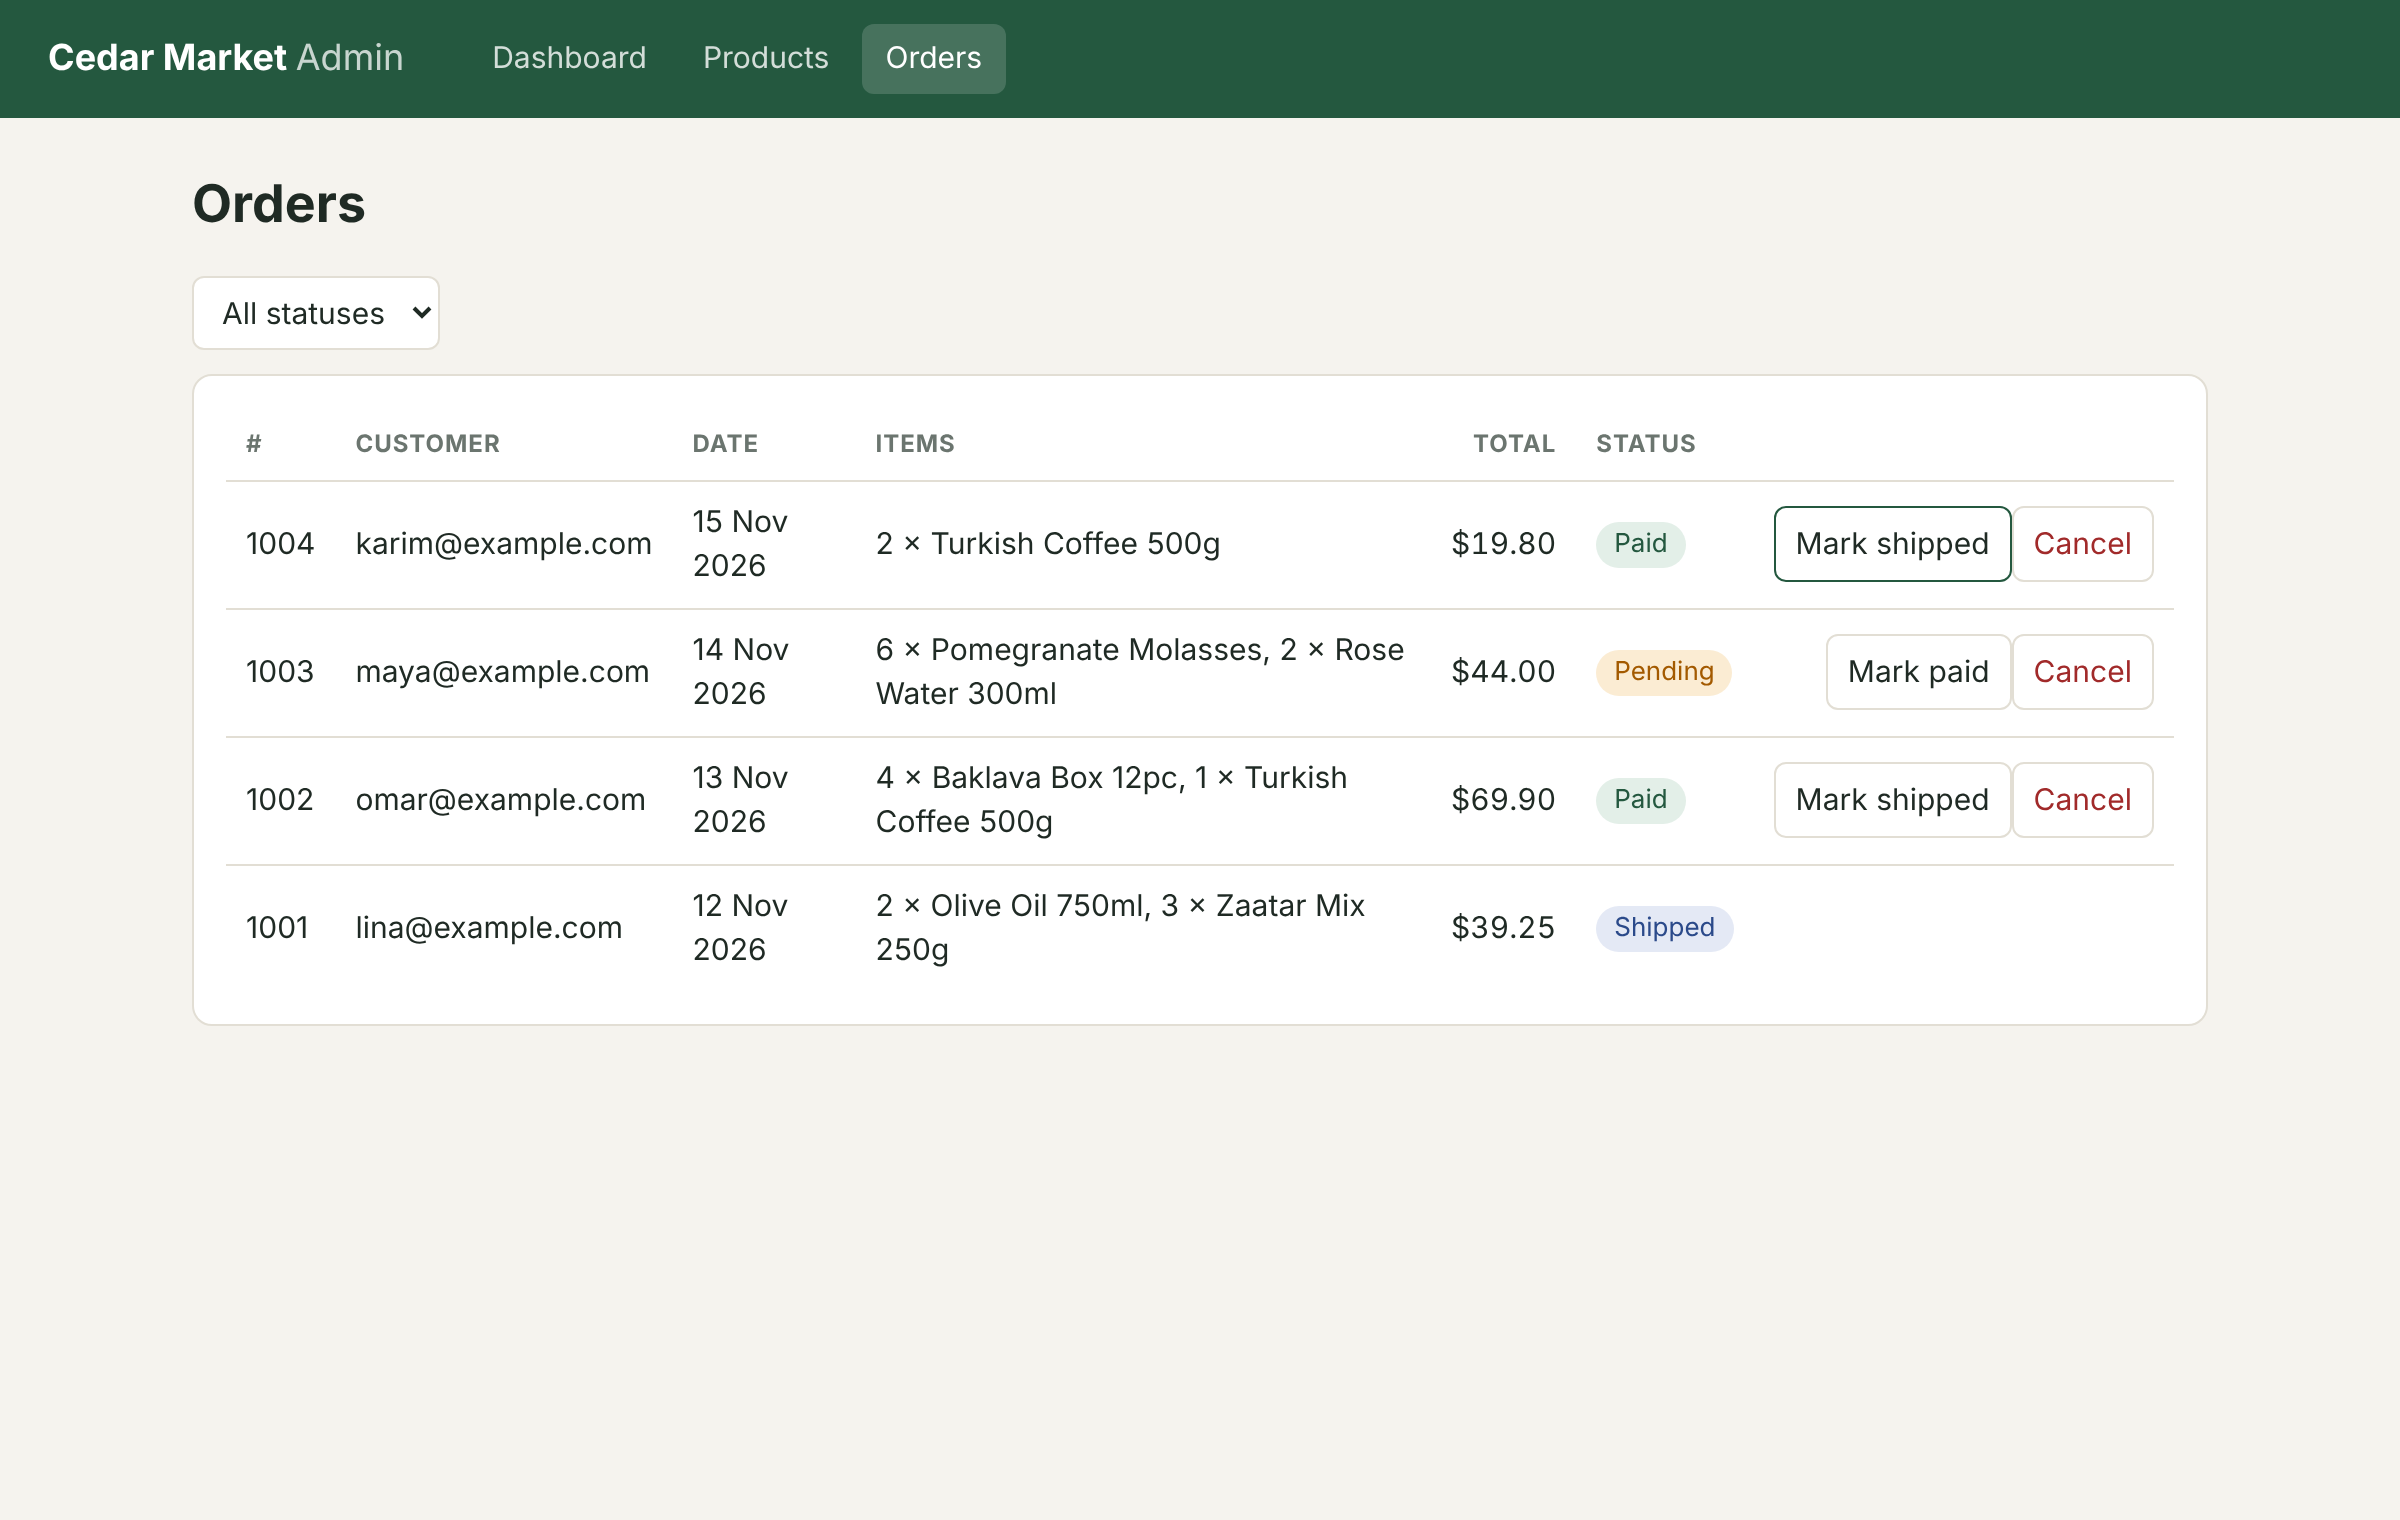
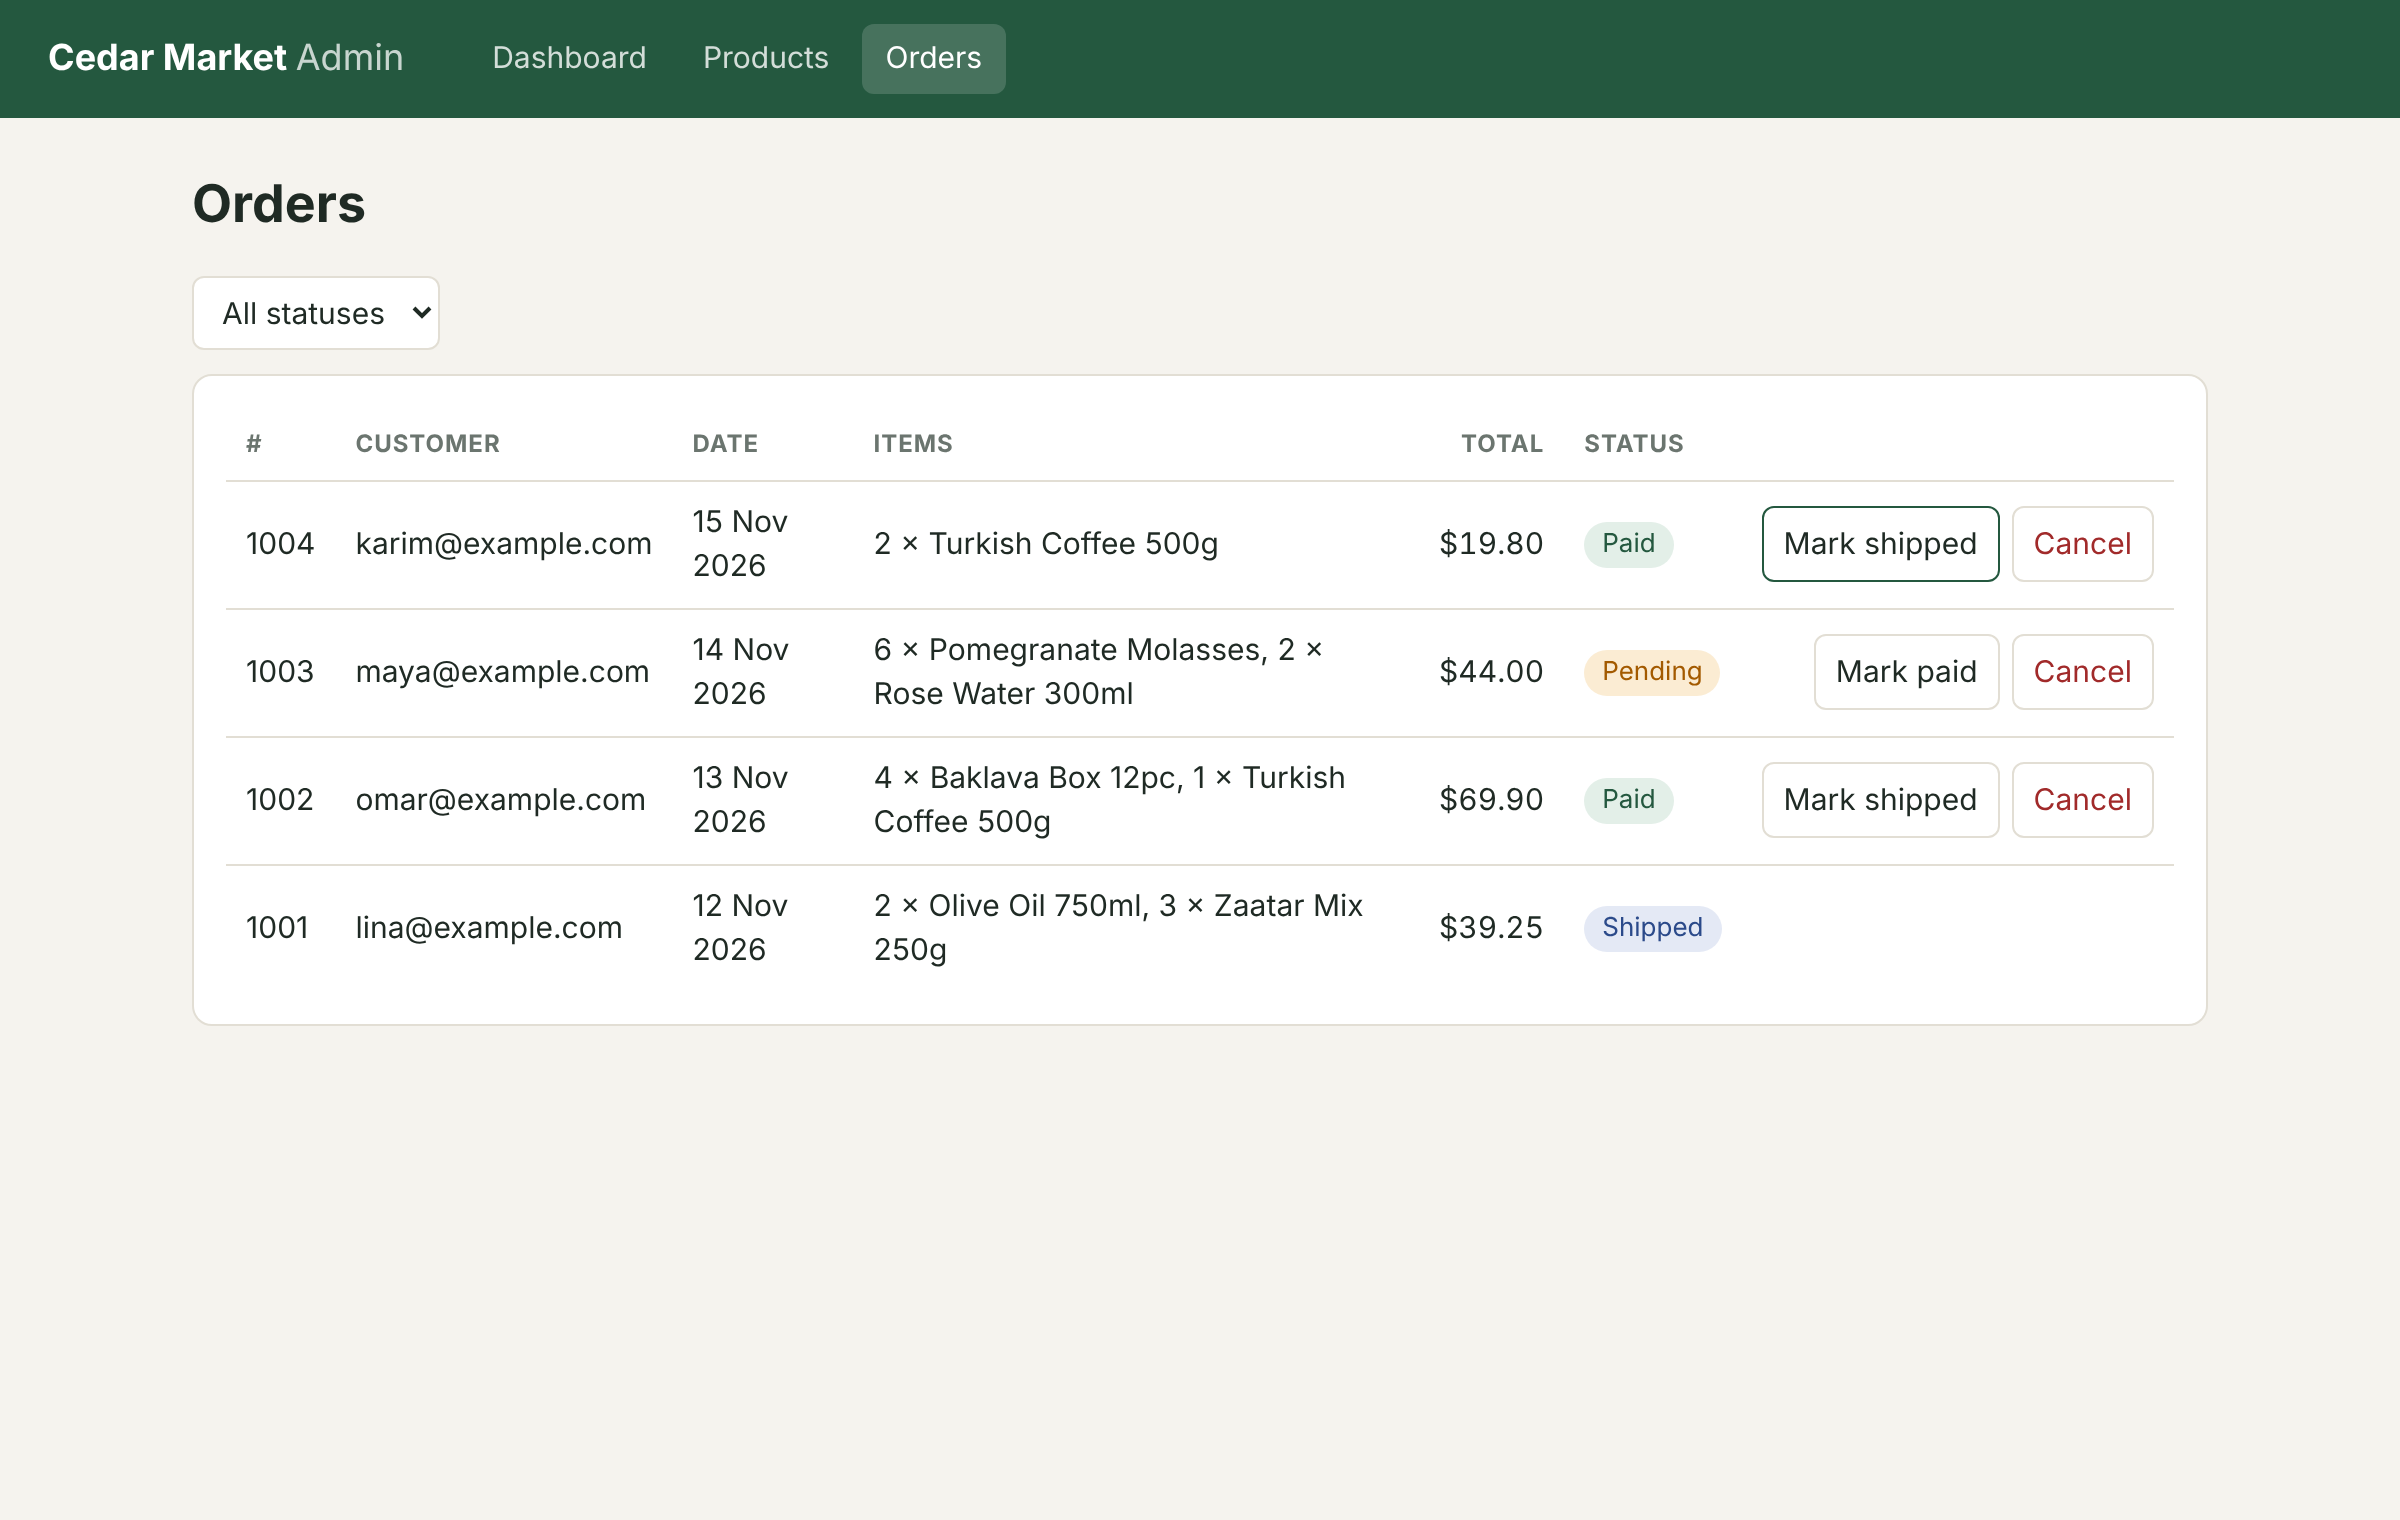
Switch to Blazor WebAssembly so the app can be hosted as a static site

diff --git a/src/StoreAdmin/wwwroot/index.html b/src/StoreAdmin/wwwroot/index.html
@@ -1,0 +1,26 @@
+<!DOCTYPE html>
+<html lang="en">
+
+<head>
+    <meta charset="utf-8" />
+    <meta name="viewport" content="width=device-width, initial-scale=1.0" />
+    <title>Cedar Market Admin</title>
+    <base href="/" />
+    <link rel="icon" href="data:," />
+    <link rel="stylesheet" href="css/app.css" />
+</head>
+
+<body>
+    <div id="app">
+        <p class="loading">Loading Cedar Market Admin…</p>
+    </div>
+
+    <div id="blazor-error-ui">
+        An unhandled error has occurred.
+        <a href="" class="reload">Reload</a>
+        <a class="dismiss">🗙</a>
+    </div>
+    <script src="_framework/blazor.webassembly.js"></script>
+</body>
+
+</html>

diff --git a/src/StoreAdmin/wwwroot/css/app.css b/src/StoreAdmin/wwwroot/css/app.css
@@ -118,3 +118,4 @@ h1:focus {
     border-color: #929292;
 }
 .row-actions button + button { margin-left: 6px; }
+.loading { text-align: center; padding: 80px 16px; color: var(--muted); }

diff --git a/src/StoreAdmin/Program.cs b/src/StoreAdmin/Program.cs
@@ -1,34 +1,16 @@
 using System.Globalization;
-using StoreAdmin.Components;
+using Microsoft.AspNetCore.Components.Web;
+using Microsoft.AspNetCore.Components.WebAssembly.Hosting;
+using StoreAdmin;
 using StoreAdmin.Services;
 
-// Prices are shown in US dollars regardless of the server's locale.
+// Prices are shown in US dollars regardless of the browser's locale.
 CultureInfo.DefaultThreadCurrentCulture = CultureInfo.DefaultThreadCurrentUICulture = new CultureInfo("en-US");
 
-var builder = WebApplication.CreateBuilder(args);
-
-// Add services to the container.
-builder.Services.AddRazorComponents()
-    .AddInteractiveServerComponents();
+var builder = WebAssemblyHostBuilder.CreateDefault(args);
+builder.RootComponents.Add<App>("#app");
+builder.RootComponents.Add<HeadOutlet>("head::after");
 
 builder.Services.AddSingleton(SeedData.CreateSeededStore());
 
-var app = builder.Build();
-
-// Configure the HTTP request pipeline.
-if (!app.Environment.IsDevelopment())
-{
-    app.UseExceptionHandler("/Error", createScopeForErrors: true);
-    // The default HSTS value is 30 days. You may want to change this for production scenarios, see https://aka.ms/aspnetcore-hsts.
-    app.UseHsts();
-}
-
-app.UseHttpsRedirection();
-
-app.UseStaticFiles();
-app.UseAntiforgery();
-
-app.MapRazorComponents<App>()
-    .AddInteractiveServerRenderMode();
-
-app.Run();
+await builder.Build().RunAsync();

diff --git a/src/StoreAdmin/Services/StoreService.cs b/src/StoreAdmin/Services/StoreService.cs
@@ -3,7 +3,7 @@ using StoreAdmin.Models;
 namespace StoreAdmin.Services;
 
 /// <summary>
-/// In-memory store data. Registered as a singleton so every browser tab sees the same state.
+/// In-memory store data, registered as a singleton for the lifetime of the app.
 /// Swap this class for an EF Core or HTTP implementation to connect a real backend.
 /// </summary>
 public class StoreService

diff --git a/README.md b/README.md
@@ -1,6 +1,7 @@
 # Cedar Market Admin — Blazor
 
-Back-office dashboard for a small online grocery store, built with **Blazor Server on .NET 8**.
+Back-office dashboard for a small online grocery store, built with **Blazor WebAssembly on .NET 8**.
+The whole app is C# running in the browser, so it deploys as a static site.
 
 ![Dashboard](docs/dashboard.png)
 
@@ -21,7 +22,7 @@ Back-office dashboard for a small online grocery store, built with **Blazor Serv
 
 ## Tech
 
-C# 12 · .NET 8 · Blazor (interactive server rendering) · DataAnnotations validation · xUnit
+C# 12 · .NET 8 · Blazor WebAssembly · DataAnnotations validation · xUnit
 
 ## Run it
 
@@ -39,14 +40,15 @@ dotnet test
 
 ```
 src/StoreAdmin
-  Components/Pages     Dashboard, Products, Orders
-  Components/Layout    Top navigation
-  Models               Product, Order, OrderLine
-  Services             StoreService (rules + data), SeedData
+  Pages      Dashboard, Products, Orders
+  Layout     Top navigation
+  Models     Product, Order, OrderLine
+  Services   StoreService (rules + data), SeedData
 tests/StoreAdmin.Tests StoreService unit tests
 ```
 
-Data is kept in memory and seeded on start, so the app runs with no database setup.
+Data is kept in memory and seeded on start, so the app runs with no database setup
+(changes reset when the page is reloaded).
 `StoreService` is the only class that touches data, so it can be replaced by an EF Core
 or HTTP-backed implementation without changing the pages.
 
